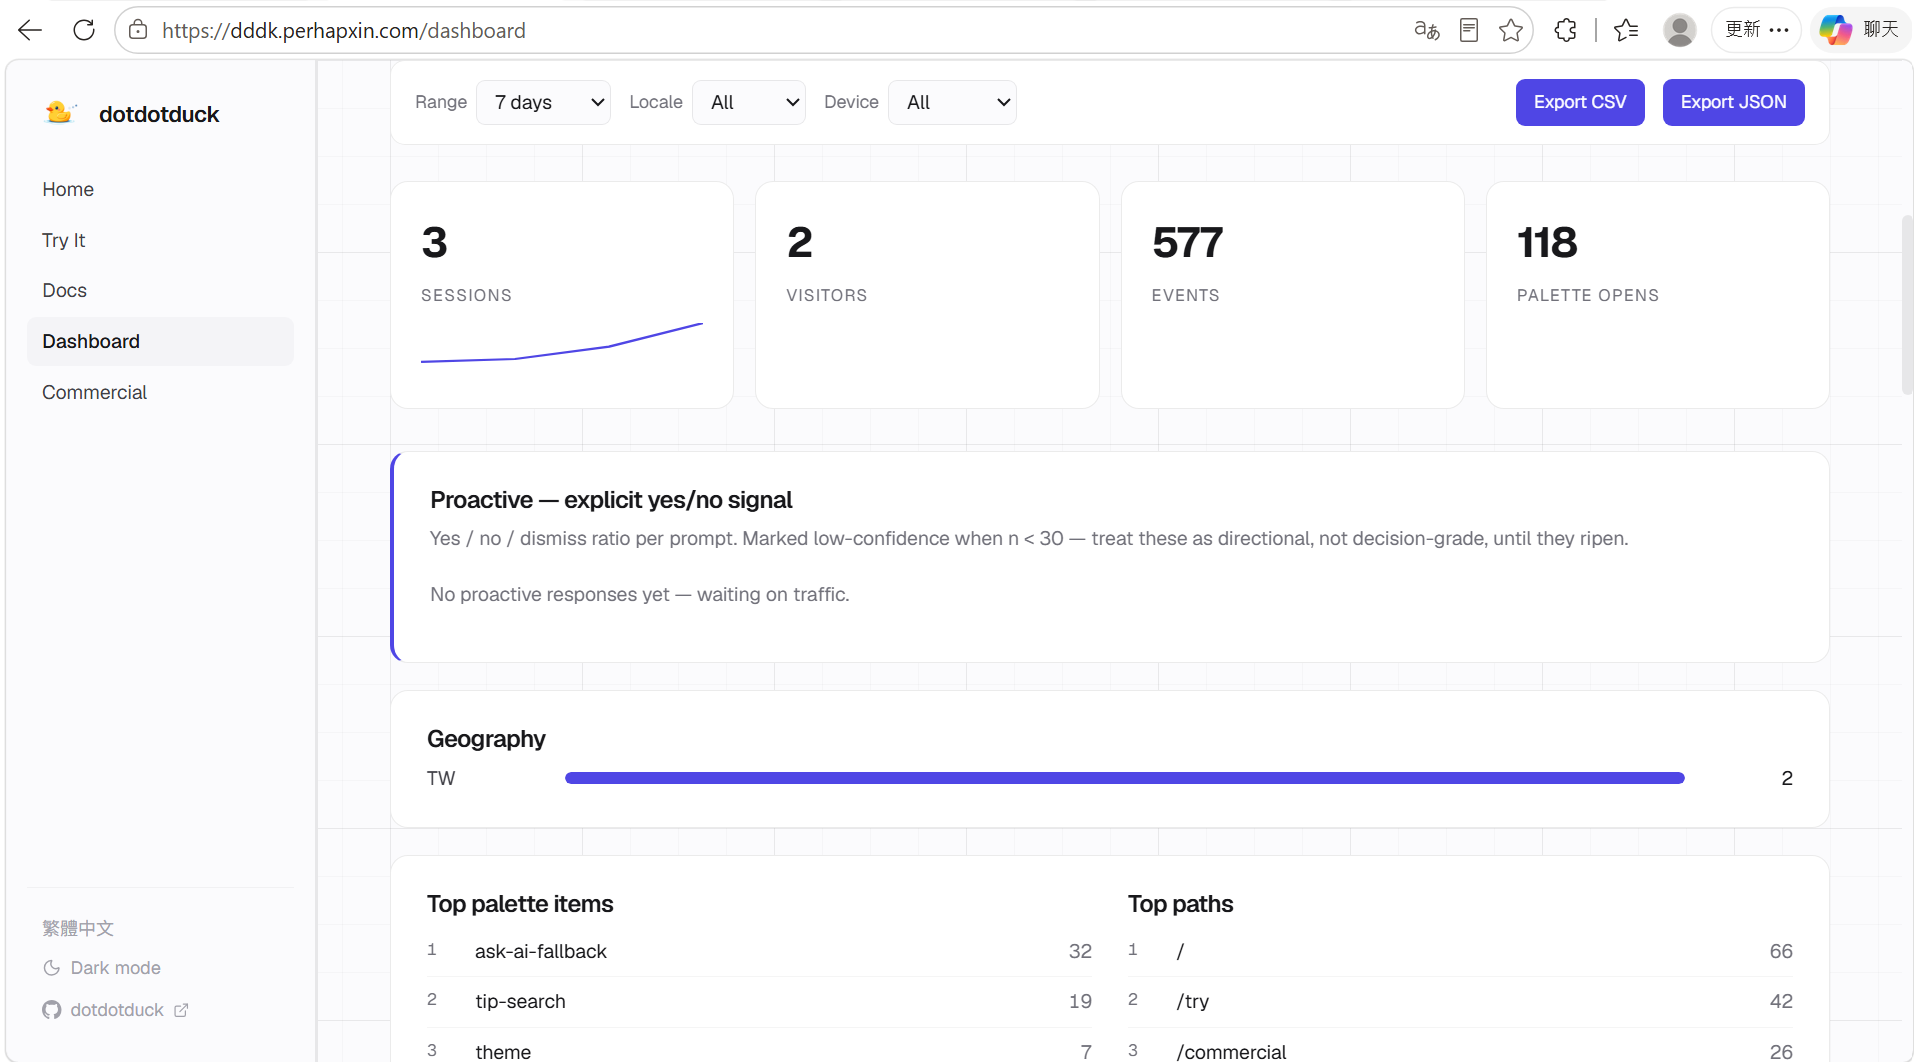
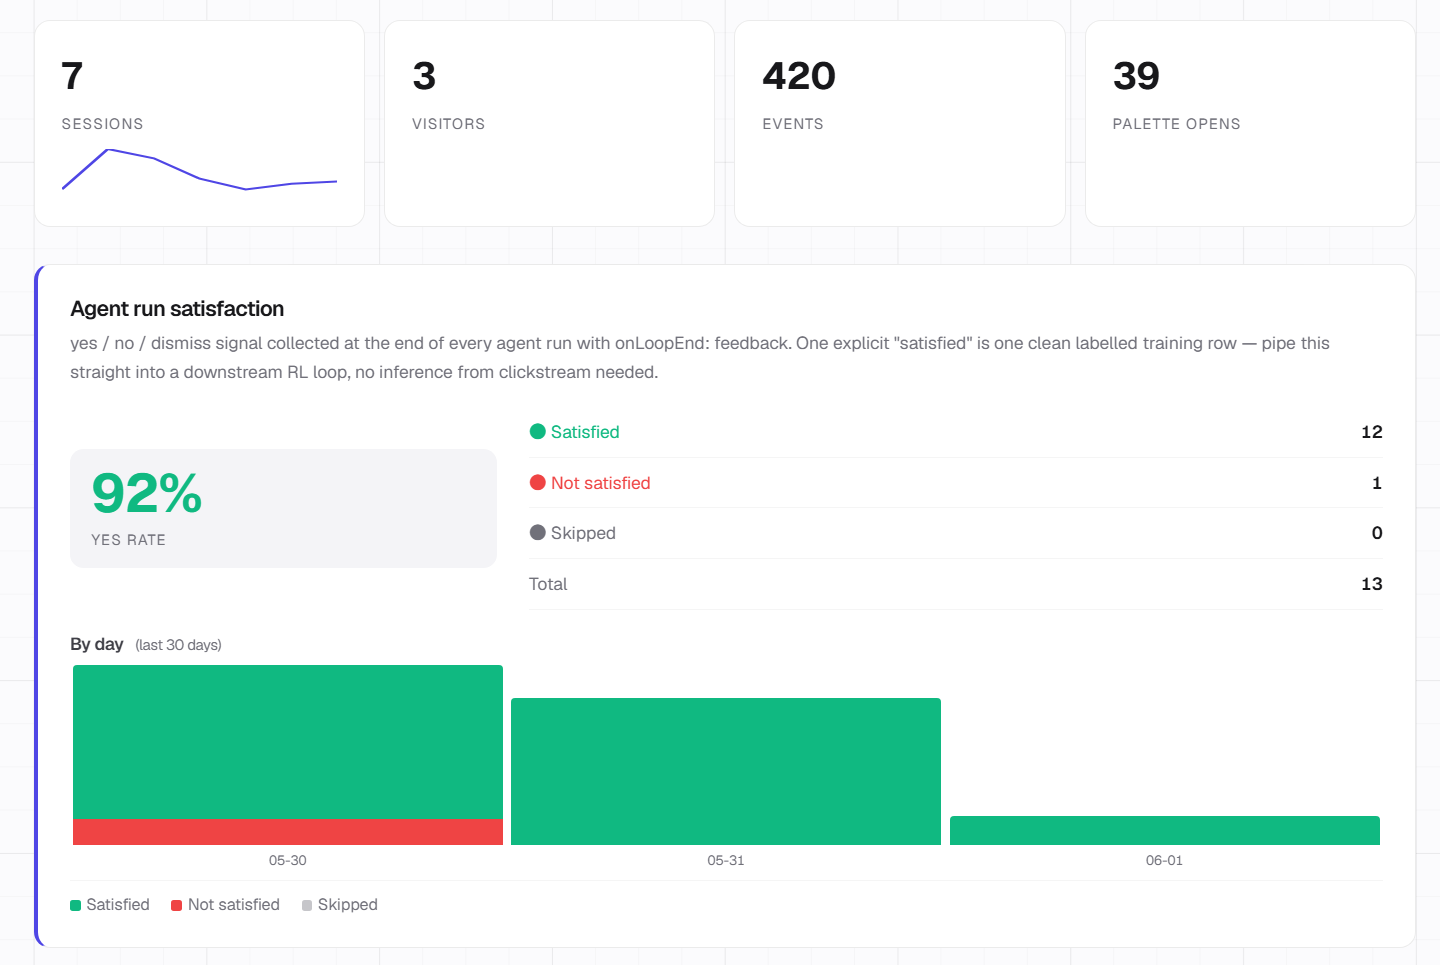
README: refresh dashboard + proactive shots, prune three feature bullets
- Two new screenshots replace the older ones in media/readme/:
  - dddk-proactive.png — current subtitle bar yes/no + multi-choice
  - dddk-dashboard.png — current dashboard layout (refresh button,
    LLM streaming perf tile, by-day satisfaction stacked-bar chart)

- Section 02 (WebAgent): drop "Indexed DOM dump" and "Optional page
  screenshots" bullets. Both were technical-detail notes that sat
  awkwardly between higher-level value bullets; readers who care about
  the [N] indices or screenshot flag find them in /docs.

- Section 03 (Inline Agent): drop the "IME-composition-aware" bullet.
  The "nothing else handles this right" claim read as boastful; the
  capability is still in the code and called out in the inline-agent
  doc, so the README doesn't need to flag it as a differentiator.

- Section 07 (Intent stream): event-types list was stale (used
  invented kinds like `voice_attempt` / `dwell_pinned` / `agent_choice`
  that don't exist in IntentEvent). Replaced with the actual union:
  palette_activated · voice_captured · agent_asked / agent_answered
  (with latencyMs) · agent_run_started / completed / stopped ·
  agent_pause_decision · agent_llm_call (TTFT, tokens/sec, model) ·
  confirm_action · selection_used · skill_started / finished ·
  agent_feedback. Bundled-dashboard bullet also gets concrete chart
  examples that match the current /dashboard page.

diff --git a/README.md b/README.md
@@ -49,9 +49,7 @@
 <td width="45%" valign="top">
 
 - **DOM-grounded autonomous loop.** Reads the visible page, picks one tool at a time, narrates each step in the subtitle bar before it runs.
-- **Indexed DOM dump.** Every actionable element gets a numeric `[N]` index; the LLM passes that index back instead of guessing CSS selectors. Viewport markers (`↑` / `↓`) tell it what the user can actually see.
 - **12 built-in actions** — `navigate`, `click`, `fill_input`, `ask_user_choice`, and friends. Add your own; the LLM picks them.
-- **Optional page screenshots.** Off by default; opt in with `screenshot: 'viewport'` or `'full-page'` (auto-split for tall pages) when the agent needs to comment on visual content the DOM dump can't convey.
 - **Space-gated every step.** Single tap accept · double-tap reject · Esc cancel. Users see what's about to happen *before* it happens.
 - **Asks back when ambiguous.** `ask_user_choice` for 2-4 options, `ask_user` for free text. No silent decisions, no guessing.
 - **Bring your own keys.** LLM via OpenAI, Google AI Studio, or a server-side `ProxyProvider`; per-role routing keeps cheap models on cleanup and the flagship on the agent loop. STT defaults to the browser's Web Speech for zero-setup; swap to Whisper or any vendor via one `transcribe(audio)` callback.
@@ -74,7 +72,6 @@
 - **Highlight any text** in any `<input>` / `<textarea>` / `[contenteditable]` — a floating toolbar appears below the selection. Pick an action, the result streams back in place of the selection.
 - **Seven default actions** — Translate, Improve writing, Fix spelling & grammar, Make shorter, Make longer, Change to professional tone, Explain this. Drop the defaults, add your own (`/translate-with-glossary`, `/rewrite-as-email`).
 - **Two-column layout** option for editor hosts that want a `Format` column next to an `AI` column. Optional keyboard shortcuts (e.g. `Ctrl+Shift+R` to rewrite without opening the menu).
-- **IME-composition-aware** — typing Chinese / Japanese / Korean candidate characters never accidentally triggers the toolbar. Critical for CJK users; nothing else handles this right.
 
 </td>
 </tr>
@@ -197,10 +194,10 @@ Four physical ways to send context into dddk. No new vocabulary to learn.
 </td>
 <td width="45%" valign="top">
 
-- **Every interaction emits a typed event.** Palette opens, voice transcripts, agent answers, accept / reject gestures, Dwell pins, multi-choice picks — all flow through one structured stream.
-- **Event types** include `palette_activated` · `voice_attempt` · `proactive_accepted` · `agent_choice` · `agent_feedback` · `dwell_pinned` · `inline_ai_applied`. Add your own and they ride the same channel.
+- **Every interaction emits a typed event.** Palette opens, voice transcripts, agent answers, accept / reject gestures, Dwell selections, multi-choice picks, even per-LLM-call streaming perf — all flow through one structured stream.
+- **Event types** include `palette_activated` · `voice_captured` · `agent_asked` / `agent_answered` (with `latencyMs`) · `agent_run_started` / `completed` / `stopped` · `agent_pause_decision` · `agent_llm_call` (TTFT, tokens/sec, model) · `confirm_action` · `selection_used` · `skill_started` / `finished` · `agent_feedback`. Add your own and they ride the same channel.
 - **Clean behavioural data, no big-data fishing.** You learn what users want from what they actually asked + answered, not from inferring through clickstreams.
-- **Bundled dashboard route** turns the stream into charts out of the box, or subscribe in code and pipe to Mixpanel / Amplitude / your own BI.
+- **Bundled dashboard route** turns the stream into charts out of the box — yes-rate over time, TTFT / tok-per-sec by model, agent-run completion rate, top palette items, geography — or subscribe in code and pipe to Mixpanel / Amplitude / your own BI.
 
 </td>
 </tr>